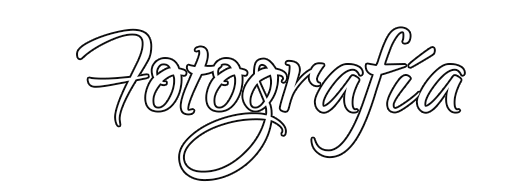
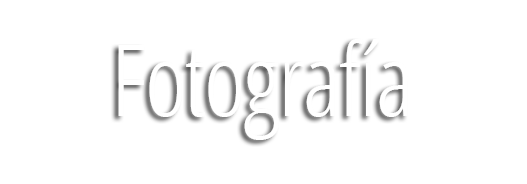
Arreglando el estilo

Changed region(s): [[0.1214, 0.1359, 0.9108, 1.0]]

diff --git a/app/assets/stylesheets/custom.scss b/app/assets/stylesheets/custom.scss
@@ -1,6 +1,6 @@
 @import "bootstrap-sprockets";
 @import "bootstrap";
-@import url('https://fonts.googleapis.com/css?family=Qwigley');
+@import url('https://fonts.googleapis.com/css?family=Open+Sans+Condensed:500');
 @import url('https://fonts.googleapis.com/css?family=Raleway:100,400');
 @import url('https://fonts.googleapis.com/css?family=Open+Sans+Condensed:300');
 
@@ -55,7 +55,7 @@ h1 {
   letter-spacing: -2px;
   margin-bottom: 30px;
   text-align: center;
-  font-family: 'Qwigley', cursive;
+  font-family: 'Open Sans Condensed', sans-serif ;
 }
 
 h2 {

diff --git a/app/models/message.rb b/app/models/message.rb
@@ -12,6 +12,6 @@ class Message
 
   validates :email, presence: { message: "no puede estar en blanco" }, format: { with: VALID_EMAIL_REGEX, message: "no parece ser una dirección válida" }
 
-  validates :mensaje, presence: { message: "no puede estar en blanco" }, length: { maximum: 5000, message: "no debe exceder los 5000 caracteres" }
+  validates :mensaje, presence: { message: "no puede estar en blanco" }, length: { maximum: 10000, message: "no debe exceder los 10000 caracteres" }
 
 end
